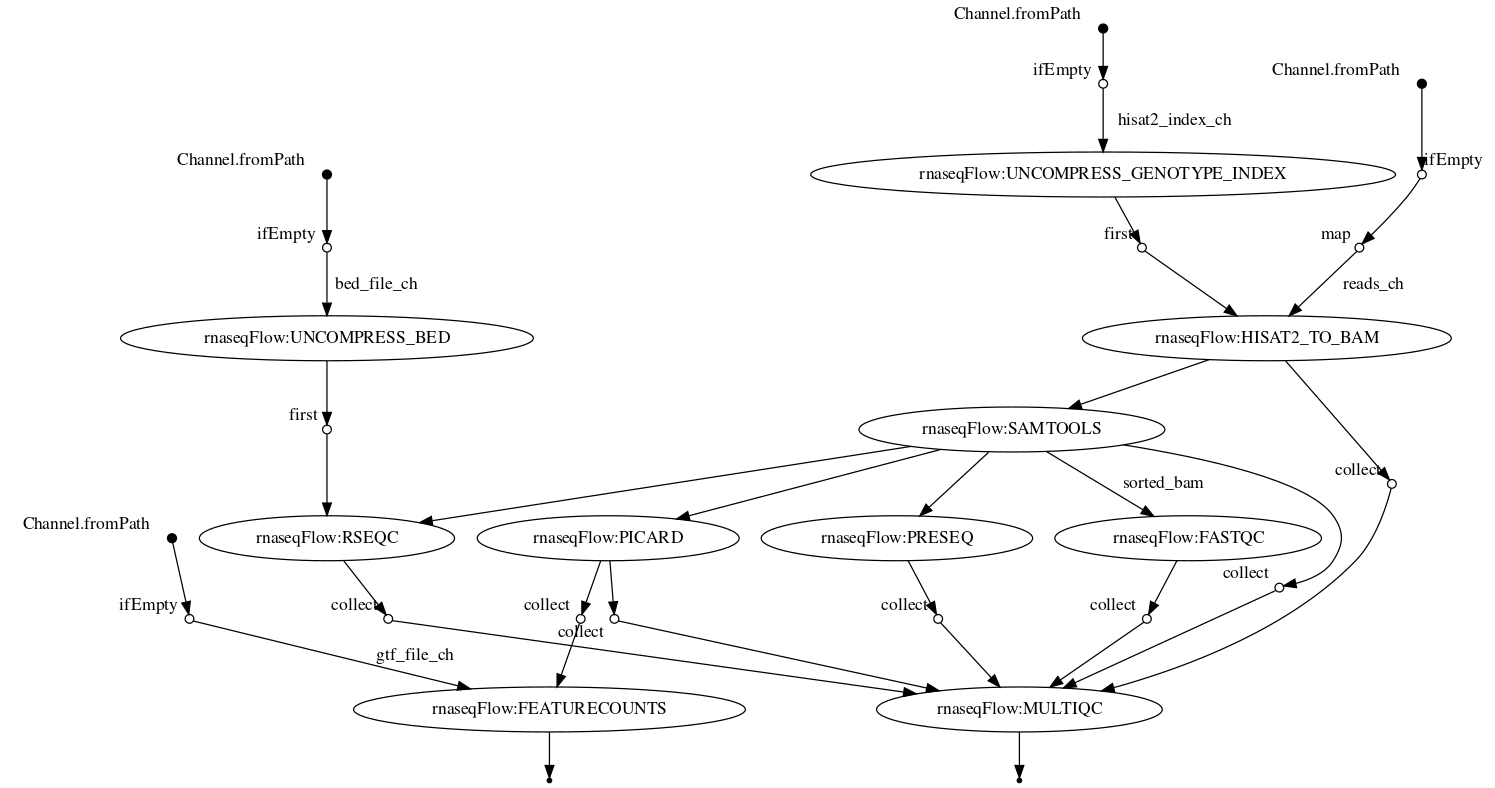
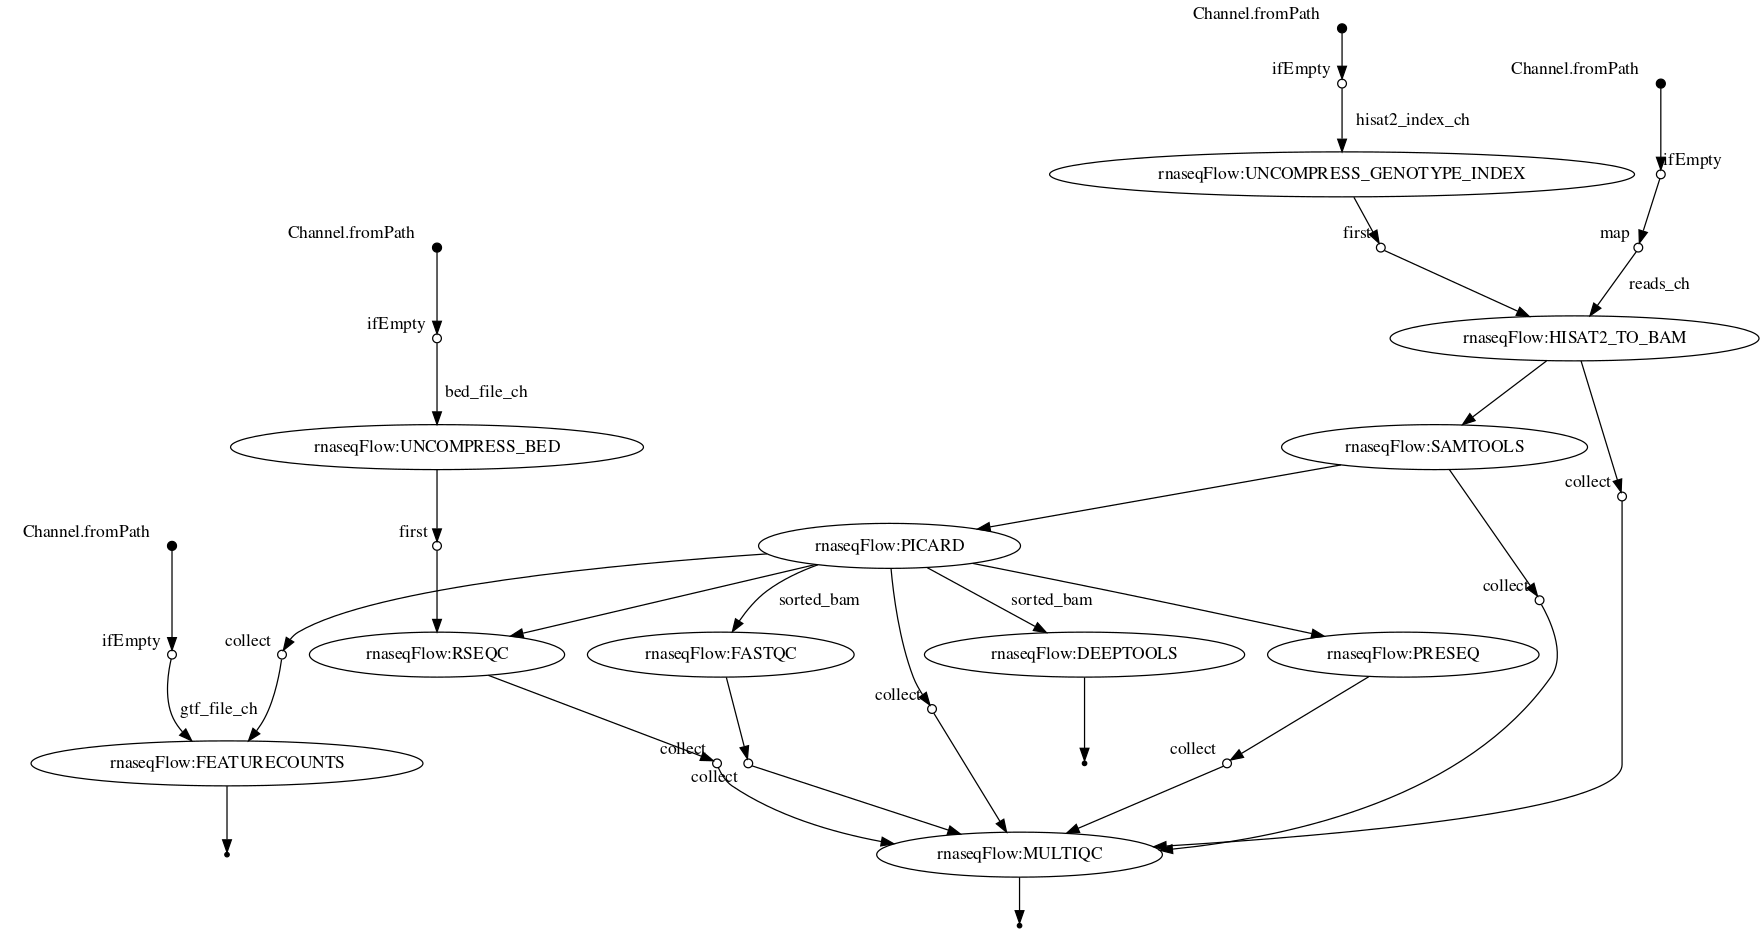
deeptools

diff --git a/README.md b/README.md
@@ -15,7 +15,7 @@ Proof of concept of a RNA-Seq pipeline from reads to count matrix (including qua
 
 ### Additional necessary files
 
-If the reads to be analyzed originate from a human experiment, these additional 3 files must be stored in folder `data`:
+If the reads to be analyzed originate from a human RNA-Seq experiment, these additional 3 files must be stored in folder `data`:
 
 * Prebuild Hisat2 index for H. sapiens, release GRCh38
 
@@ -36,7 +36,7 @@ http://genome.ucsc.edu/cgi-bin/hgTables
 ```
 The BED file must be stored in `*.annotation.bed.gz` file format.
 
-For the analysis of another species, the corresponding files must be downloaded.
+For the analysis of another species, the corresponding files for this organismus must be downloaded.
 
 ## Table of Contents
 
@@ -119,7 +119,8 @@ and processes data using the following steps:
 2. [samtools](http://www.htslib.org/) - create sorted BAM files from HISAT2 SAM files
 3. [picard](https://broadinstitute.github.io/picard/) - mark duplicates in sorted BAM files
 4. [featureCounts](http://subread.sourceforge.net/) - count mapped reads to genomic features (exons)
-5. [preseq](http://smithlabresearch.org/software/preseq/) -  predict and estimate the complexity of genomic sequencing library
-6. [reseqc](http://rseqc.sourceforge.net/) - comprehensive evaluation of used RNA-Seq data
-7. [FastQC](http://www.bioinformatics.babraham.ac.uk/projects/fastqc/) - BAM file quality control
-8. [MultiQC](https://multiqc.info) - aggregate report, describing results of the whole pipeline
+5. [deeptools](https://deeptools.readthedocs.io/en/develop/) - create BIGWIG from BAM for IGV
+6. [preseq](http://smithlabresearch.org/software/preseq/) -  predict and estimate the complexity of genomic sequencing library
+7. [reseqc](http://rseqc.sourceforge.net/) - comprehensive evaluation of used RNA-Seq data
+8. [FastQC](http://www.bioinformatics.babraham.ac.uk/projects/fastqc/) - BAM file quality control
+9. [MultiQC](https://multiqc.info) - aggregate report, describing results of the whole pipeline
